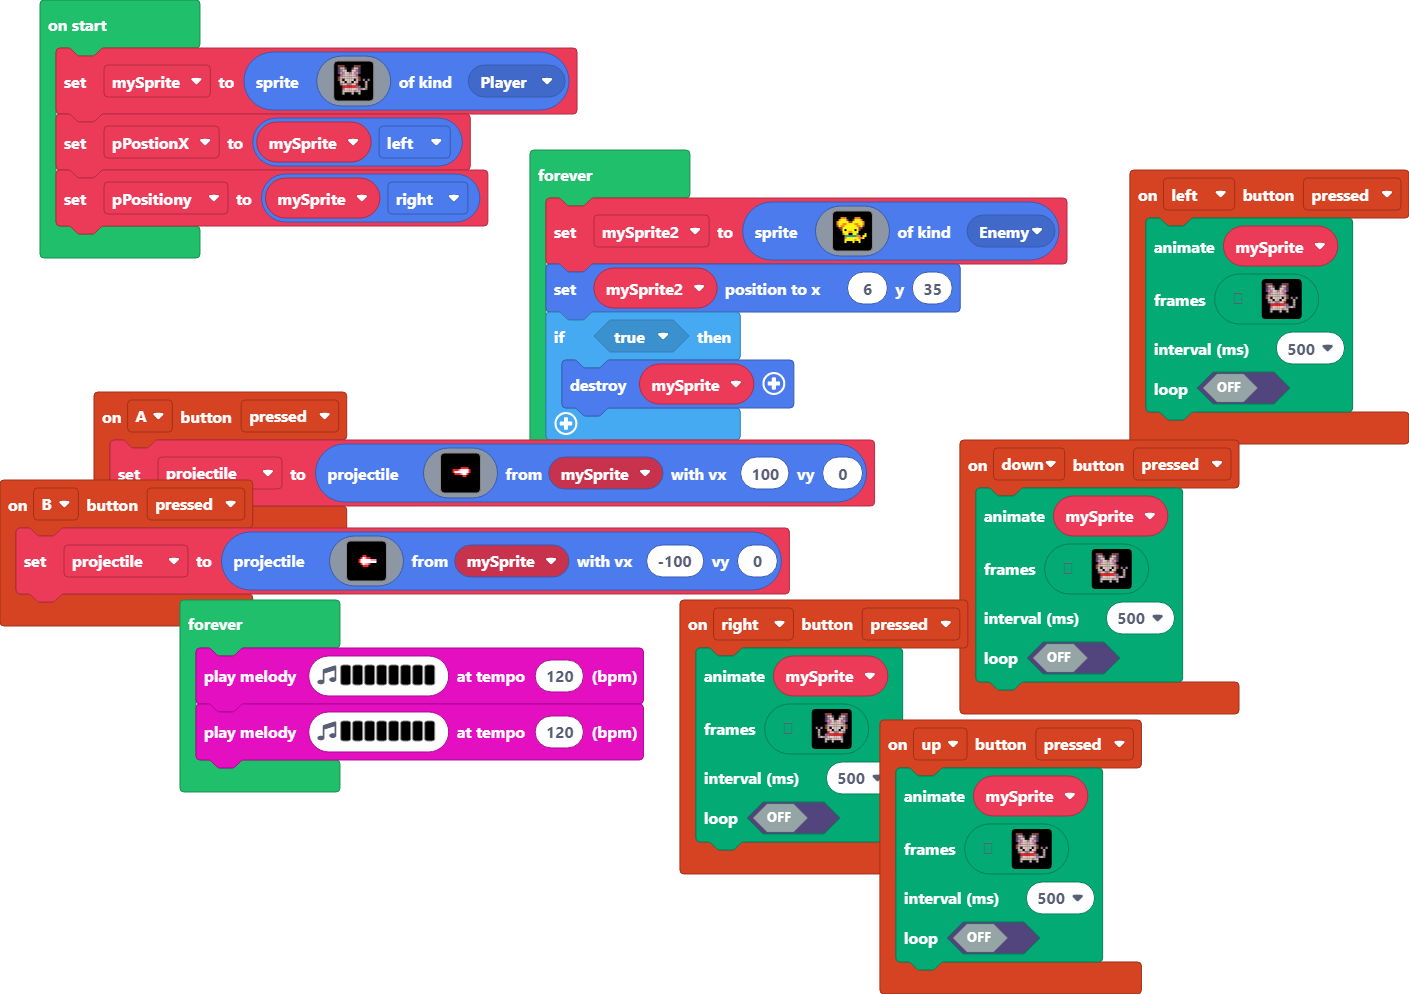
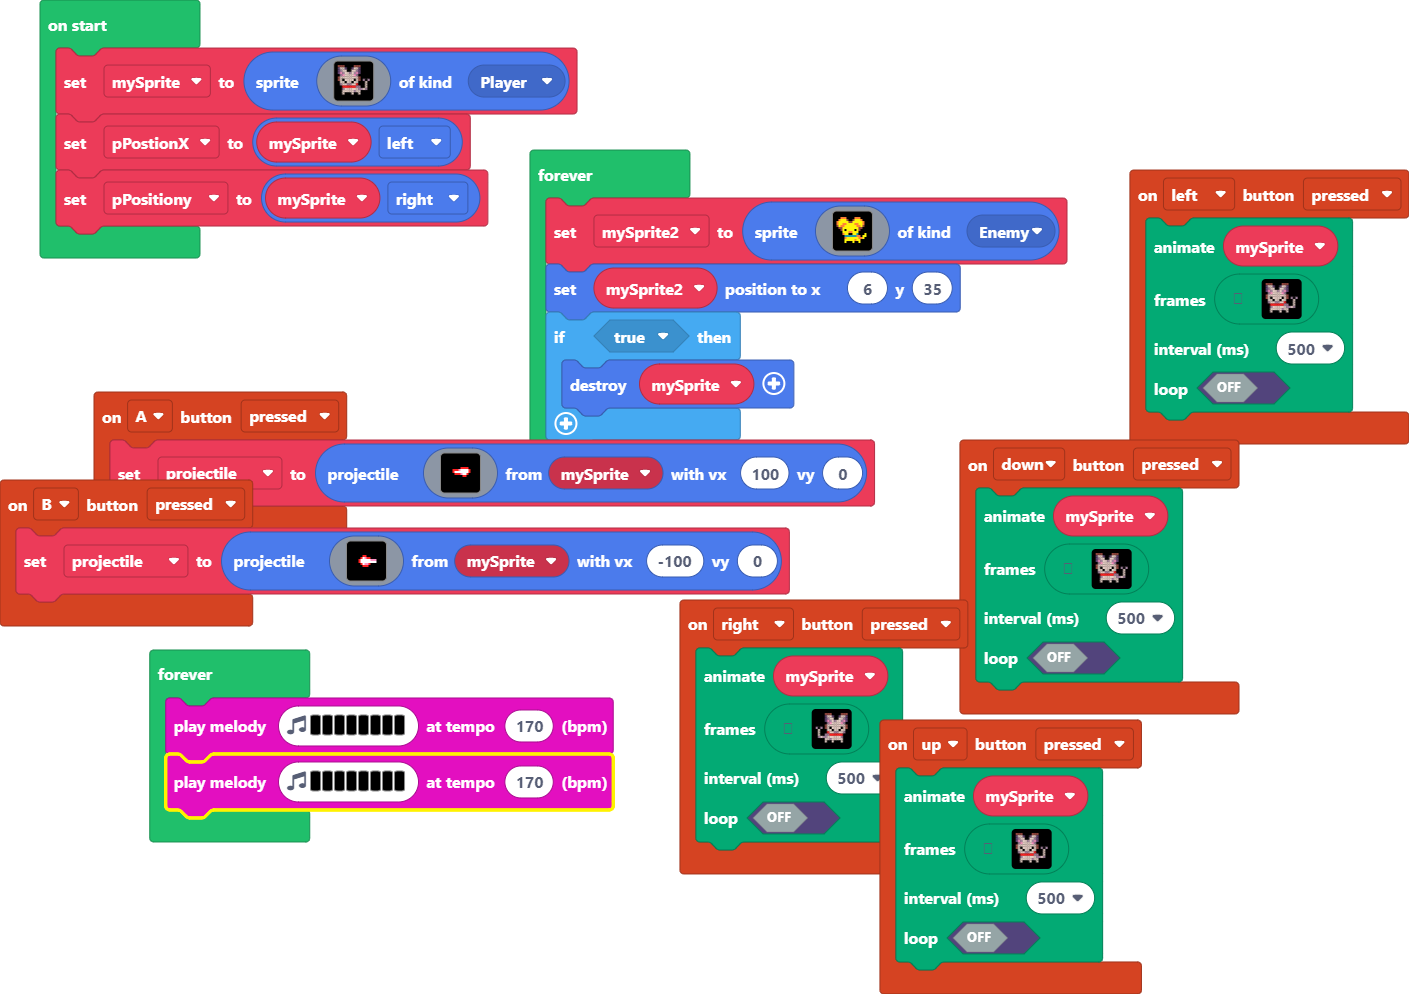
temp fix

Changed region(s): [[0.0937, 0.5926, 0.4684, 0.8732]]

diff --git a/main.ts b/main.ts
@@ -294,6 +294,6 @@ forever(function () {
     }
 })
 forever(function () {
-    music.playMelody("D E F D E F D E ", 120)
-    music.playMelody("F G F E D E F G ", 120)
+    music.playMelody("D E F D E F D E ", 170)
+    music.playMelody("F G F E D E F G ", 170)
 })
